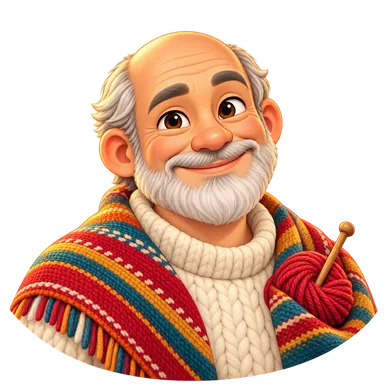
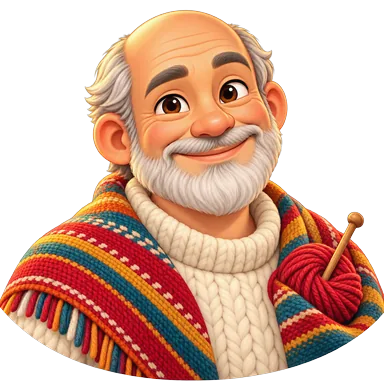
Profile picture: a square tile without the letter, and the Master weaver as large as the others
The tile was taller than wide (from the old portrait picture), so a square avatar left an empty strip above the head; the first
letter of the name dates from when everyone had the same picture. The Master weaver is drawn 6% larger, so his head sits as high
as the other avatars' heads.

diff --git a/public/player-profiles.css b/public/player-profiles.css
@@ -16,8 +16,9 @@
 .farmer-profile-dialog::backdrop{background:#243e3060;backdrop-filter:blur(5px)}
 .farmer-profile-dialog .dialog-heading{gap:14px;align-items:flex-start}.farmer-profile-dialog .dialog-heading>div{min-width:0}.farmer-profile-dialog h2{font-size:clamp(24px,4vw,34px);overflow-wrap:anywhere;line-height:1.2}.farmer-profile-dialog .icon-button{flex-shrink:0;min-width:44px;min-height:44px;font-size:28px}
 .farmer-identity{display:flex;gap:20px;align-items:center;margin:20px 0 24px}.farmer-identity>div:last-child{min-width:0}.farmer-identity h3{font-size:clamp(24px,5vw,34px);line-height:1.15;overflow-wrap:anywhere;margin:6px 0 12px}
-.farmer-avatar{position:relative;display:grid;place-items:center;flex:0 0 100px;height:110px;border-radius:26px;background:linear-gradient(145deg,#f8e5b4,#e4edcf);border:1px solid #d7d5b6}.farmer-avatar{overflow:hidden}
-.farmer-avatar-img{display:block;width:100%;height:100%;padding:8px 6px 0;object-fit:contain;object-position:50% 100%;pointer-events:none;-webkit-user-select:none;user-select:none}.farmer-avatar>span:last-child{position:absolute;bottom:9px;right:9px;background:#fffdf4;border-radius:9px;padding:3px 8px;font-size:16px;font-weight:800}
+/* Square, like the avatars themselves, so no strip of empty space sits above the head. */
+.farmer-avatar{position:relative;display:grid;place-items:center;flex:0 0 100px;height:100px;border-radius:26px;background:linear-gradient(145deg,#f8e5b4,#e4edcf);border:1px solid #d7d5b6}.farmer-avatar{overflow:hidden}
+.farmer-avatar-img{display:block;width:100%;height:100%;padding:4px 4px 0;object-fit:contain;object-position:50% 100%;pointer-events:none;-webkit-user-select:none;user-select:none}
 .farmer-identity-meta{display:flex;flex-wrap:wrap;gap:14px;align-items:center}
 .farmer-since{display:flex;align-items:center;gap:7px;margin:10px 0 0;font-size:13px;color:#7d7561}
 .farmer-since-icon{width:15px;height:15px;flex-shrink:0;fill:none;stroke:currentColor;stroke-width:2;stroke-linecap:round;stroke-linejoin:round}
@@ -47,7 +48,7 @@
 .admin-grant-give>.game-art{width:20px;height:20px}
 #admin-grant-status{font-size:12px;line-height:1.5;margin:11px 0 0;color:#6b5c33;min-height:1.5em}
 @media(max-width:480px){.admin-grant-row{grid-template-columns:1fr;gap:8px}.admin-grant-item-row{grid-template-columns:1fr;gap:8px}}
-@media(max-width:480px){.farmer-profile-dialog{padding:18px;border-radius:24px}.farmer-identity{gap:13px}.farmer-avatar{flex-basis:70px;height:85px}.farmer-avatar-img{padding:6px 4px 0}.farmer-profile-dialog .eyebrow{font-size:10px;letter-spacing:1px}.farmer-stat{padding:12px 9px;gap:7px}.farmer-stat>.game-art{width:31px;height:31px;flex-basis:31px}.farmer-stat strong{font-size:21px}.farmer-stat-grid{gap:8px}.farmer-badge-grid{grid-template-columns:repeat(3,minmax(0,1fr))}.farmer-search{padding:12px}.farmer-search-result{gap:8px}.farmer-search-avatar{flex-basis:30px;height:34px;font-size:12px}.farmer-search-result .farmer-presence{font-size:11px;gap:4px}.farmer-search-name strong{font-size:14px}.farmer-family{padding:12px}}
+@media(max-width:480px){.farmer-profile-dialog{padding:18px;border-radius:24px}.farmer-identity{gap:13px}.farmer-avatar{flex-basis:76px;height:76px}.farmer-avatar-img{padding:3px 3px 0}.farmer-profile-dialog .eyebrow{font-size:10px;letter-spacing:1px}.farmer-stat{padding:12px 9px;gap:7px}.farmer-stat>.game-art{width:31px;height:31px;flex-basis:31px}.farmer-stat strong{font-size:21px}.farmer-stat-grid{gap:8px}.farmer-badge-grid{grid-template-columns:repeat(3,minmax(0,1fr))}.farmer-search{padding:12px}.farmer-search-result{gap:8px}.farmer-search-avatar{flex-basis:30px;height:34px;font-size:12px}.farmer-search-result .farmer-presence{font-size:11px;gap:4px}.farmer-search-name strong{font-size:14px}.farmer-family{padding:12px}}
 .leaderboard-table .leaderboard-place{width:60px;padding-inline:8px;text-align:center}.leaderboard-place .rank-number{display:inline-grid;place-items:center;min-width:40px;min-height:46px;font-weight:800}.leaderboard-place .rank-trophy>.game-art{width:44px;height:48px}
 @media(max-width:480px){.leaderboard-table .leaderboard-place{width:42px;padding-inline:3px}.leaderboard-place .rank-trophy>.game-art{width:34px;height:40px}.leaderboard-place .rank-number{min-width:34px}.leaderboard-table td{overflow-wrap:anywhere}}
 /* The admin dashboard (floris@millstone.nl only — #admin-button in the topbar stays hidden for everyone else). */

diff --git a/src/player-profiles.js b/src/player-profiles.js
@@ -15,7 +15,6 @@ export function formatDate(ms){
  return {text:`${date}-${month}-${year}`,iso:`${year}-${month}-${date}`};
 }
 const since=ms=>{const date=formatDate(ms);return date?`<p class="farmer-since"><svg class="farmer-since-icon" viewBox="0 0 24 24" aria-hidden="true" focusable="false"><path d="M8 3v4M16 3v4M4 10h16M6 5h12a2 2 0 0 1 2 2v11a2 2 0 0 1-2 2H6a2 2 0 0 1-2-2V7a2 2 0 0 1 2-2Z"/></svg>Member since <time datetime="${date.iso}">${date.text}</time></p>`:'';};
-const initials=name=>String(name??'Farmer').split(/\s+/).slice(0,2).map(part=>part[0]??'').join('').toUpperCase();
 const presence=online=>`<span class="farmer-presence"><span class="online-dot${online?' is-online':''}" aria-hidden="true"></span>${online?'Online':'Offline'}</span>`;
 // Crop mastery: one card per crop with its best badge, and a dot for each of the four badges (bronze, silver, gold, platinum)
 // that is earned. The best crops first, then in the order they unlock.
@@ -29,7 +28,7 @@ export function renderPlayerProfile(player,now=Date.now()){
  const family=player.family,emblem=FAMILY_EMBLEMS.find(e=>e.id===family?.emblem),stats=player.stats??{};
  const tiles=[['harvested_crops','Crops harvested','harvest'],['goods_produced','Goods produced','buildings'],['items_sold','Items sold','market'],['deliveries','Deliveries completed','cart']];
  const badges=player.badges??[],mastered=masteryByCrop(badges);
- return `<div class="farmer-identity"><div class="farmer-avatar" aria-hidden="true"><img class="farmer-avatar-img" src="${playerAvatar(player.avatarId).src}" alt="" width="320" height="363" decoding="async" draggable="false"><span>${esc(initials(player.username))}</span></div><div><span class="eyebrow">FARMER OF THE VALLEY</span><h3>${esc(player.username)}${vipBadge(player.vipExpiresAt,now)}</h3><div class="farmer-identity-meta"><span class="farmer-level">${art('xp')}Level ${fmt(player.level)}</span>${presence(player.online)}</div>${since(player.memberSince)}${vipBadge(player.vipExpiresAt,now,true)}</div></div>
+ return `<div class="farmer-identity"><div class="farmer-avatar" aria-hidden="true"><img class="farmer-avatar-img" src="${playerAvatar(player.avatarId).src}" alt="" width="384" height="384" decoding="async" draggable="false"></div><div><span class="eyebrow">FARMER OF THE VALLEY</span><h3>${esc(player.username)}${vipBadge(player.vipExpiresAt,now)}</h3><div class="farmer-identity-meta"><span class="farmer-level">${art('xp')}Level ${fmt(player.level)}</span>${presence(player.online)}</div>${since(player.memberSince)}${vipBadge(player.vipExpiresAt,now,true)}</div></div>
  <div class="farmer-chat" data-farmer-chat hidden></div>
  <section class="farmer-family" aria-label="Family">${emblem?`<span class="farmer-family-emblem" style="--family-color:${esc(emblem.color)}">${art(emblem.icon)}</span>`:art('familyhall')}<div><span class="eyebrow">FAMILY</span><h4>${esc(family?.name??'No family yet')}</h4><p>${esc(family?.role??'Growing at their own pace')}</p></div><div class="farmer-invite" data-farmer-invite hidden></div></section>
  <h3 class="farmer-section-title">Life on the farm</h3><div class="farmer-stat-grid">${tiles.map(([key,label,icon])=>`<div class="farmer-stat">${art(icon)}<div><strong>${fmt(stats[key])}</strong><span>${label}</span></div></div>`).join('')}</div>
